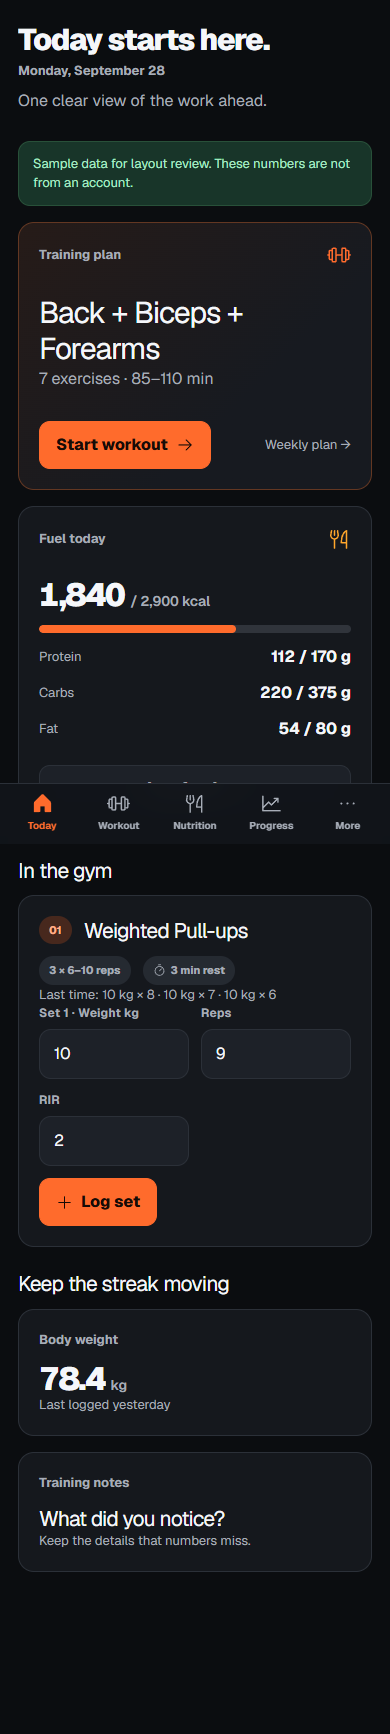
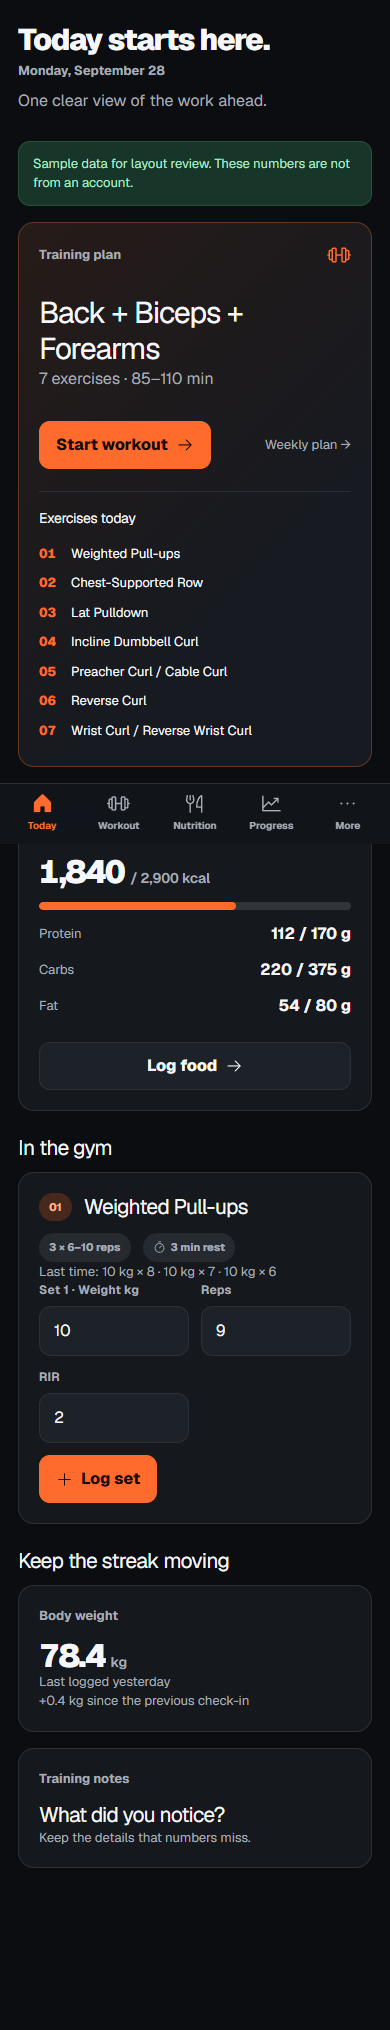
Show today's ordered plan and weight trend

diff --git a/src/app/(app)/today/page.tsx b/src/app/(app)/today/page.tsx
@@ -1,49 +1,152 @@
 'use client'
 
-import { useEffect,useState } from 'react'
+import { useEffect, useState } from 'react'
 import Link from 'next/link'
 import { useRouter } from 'next/navigation'
 import { ArrowRight, Barbell, ForkKnife, TrendUp } from '@phosphor-icons/react'
 import { useAuth } from '@/components/auth-provider'
 import { supabase } from '@/lib/supabase'
-import { dayNumber,localDate,niceDate } from '@/lib/utils'
+import { dayNumber, localDate, niceDate } from '@/lib/utils'
 import { nutritionTotals } from '@/lib/metrics'
-import { displayValue,unitLabel } from '@/lib/units'
+import { displayValue, unitLabel } from '@/lib/units'
 import { useUnits } from '@/hooks/use-units'
-import { errorMessage,type WorkoutDay,type NutritionTarget,type FoodEntry,type Measurement,type Session } from '@/lib/data'
+import { errorMessage, type WorkoutDay, type NutritionTarget, type FoodEntry, type Measurement, type Session } from '@/lib/data'
+
+type PlannedExercise = { id: string; sort_order: number; exercises: { name: string } }
+type WeightCheckIn = Pick<Measurement, 'id' | 'measured_at' | 'weight_kg'>
 
 export default function Today() {
-  const {user}=useAuth();const router=useRouter()
-  const units=useUnits()
-  const [day,setDay]=useState<WorkoutDay|null>(null)
-  const [active,setActive]=useState<Session|null>(null)
-  const [targets,setTargets]=useState<NutritionTarget|null>(null)
-  const [entries,setEntries]=useState<FoodEntry[]>([])
-  const [weight,setWeight]=useState<Pick<Measurement,'id'|'measured_at'|'weight_kg'>|null>(null)
-  const [exerciseCount,setExerciseCount]=useState(0)
-  const [error,setError]=useState('');const [busy,setBusy]=useState(false)
-  useEffect(()=>{ if(!user)return; let live=true; (async()=>{try{
-    const client=supabase();await client.rpc('forge_ensure_user_setup')
-    const [sessions,nutrition,foods,measurements]=await Promise.all([
-      client.from('workout_sessions').select('id,workout_day_id,started_at,completed_at,status,notes').eq('status','active').maybeSingle(),
-      client.from('nutrition_targets').select('id,calories,protein_g,carbs_g,fat_g,effective_from').lte('effective_from',localDate()).order('effective_from',{ascending:false}).limit(1).maybeSingle(),
-      client.from('food_entries').select('id,food_id,logged_date,meal_type,quantity,calories,protein_g,carbs_g,fat_g').eq('logged_date',localDate()),
-      client.from('body_measurements').select('id,measured_at,weight_kg').not('weight_kg','is',null).order('measured_at',{ascending:false}).limit(1).maybeSingle(),
-    ])
-    if(sessions.error)throw sessions.error;if(nutrition.error)throw nutrition.error;if(foods.error)throw foods.error;if(measurements.error)throw measurements.error
-    // Day rows are restricted to the active program through the program relationship.
-    const {data:program}=await client.from('workout_programs').select('id').eq('active',true).maybeSingle()
-    const {data:today}=await client.from('workout_days').select('id,day_of_week,name,is_rest_day,estimated_minutes_min,estimated_minutes_max').eq('program_id',program?.id??'00000000-0000-0000-0000-000000000000').eq('day_of_week',dayNumber()).maybeSingle()
-    const {count}=today?await client.from('program_exercises').select('id',{count:'exact',head:true}).eq('workout_day_id',today.id):{count:0}
-    if(live){setDay(today);setActive(sessions.data);setTargets(nutrition.data);setEntries(foods.data??[]);setWeight(measurements.data);setExerciseCount(count??0)}
-  }catch(caught){if(live)setError(errorMessage(caught))}})();return()=>{live=false}},[user])
-  const totals=nutritionTotals(entries)
-  async function start() { if(!user||!day)return;setBusy(true);setError('');try{
-    if(active){router.push(`/workouts/session/${active.id}`);return}
-    const {data:sessionId,error:startError}=await supabase().rpc('forge_start_workout',{p_day_id:day.id});if(startError)throw startError
-    if(!sessionId)throw new Error('Workout could not be started. Please try again.')
-    router.push(`/workouts/session/${sessionId}`)
-  }catch(caught){setError(errorMessage(caught))}finally{setBusy(false)} }
-  const date=new Date().toLocaleDateString('en-US',{weekday:'long',month:'long',day:'numeric'})
-  return <><div className="page-head"><div className="eyebrow">{date}</div><h1>Today starts here.</h1><p>One clear view of the work ahead.</p></div>{error&&<div className="notice" role="alert">{error}</div>}<div className="grid-2"><section className="card strong"><div className="row"><div className="eyebrow">Training plan</div><Barbell size={24} color="var(--accent)"/></div><h2 style={{fontSize:30,marginTop:28}}>{day?.is_rest_day?'Recovery day':day?.name??'Loading your plan…'}</h2><p className="muted">{day?.is_rest_day?'Rest, eat well, and come back stronger.':day?`${exerciseCount} exercises · ${day.estimated_minutes_min}–${day.estimated_minutes_max} min`:'Your weekly routine is being loaded.'}</p><div className="row wrap" style={{marginTop:30}}>{active?<button className="btn primary" onClick={()=>router.push(`/workouts/session/${active.id}`)}>Resume workout <ArrowRight size={18}/></button>:day&&!day.is_rest_day?<button className="btn primary" disabled={busy} onClick={start}>{busy?'Starting…':'Start workout'} <ArrowRight size={18}/></button>:<Link className="btn" href="/workouts">View routine <ArrowRight size={18}/></Link>}<Link href="/workouts" className="muted small">Weekly plan →</Link></div></section><section className="card"><div className="row"><div className="eyebrow">Fuel today</div><ForkKnife size={24} color="var(--amber)"/></div><div style={{marginTop:28}}><div className="metric">{Math.round(totals.calories)} <small>/ {targets?.calories??2900} kcal</small></div><div className="progress-track" style={{marginTop:14}}><div className="progress-fill" style={{width:`${Math.min(100,totals.calories/(targets?.calories||2900)*100)}%`}}/></div></div><div className="row" style={{marginTop:22}}><span className="muted small">Protein</span><strong>{Math.round(totals.protein)} / {targets?.protein_g??170} g</strong></div><div className="row" style={{marginTop:10}}><span className="muted small">Carbs</span><strong>{Math.round(totals.carbs)} / {targets?.carbs_g??375} g</strong></div><div className="row" style={{marginTop:10}}><span className="muted small">Fat</span><strong>{Math.round(totals.fat)} / {targets?.fat_g??80} g</strong></div><Link href="/nutrition" className="btn full" style={{marginTop:24}}>Log food <ArrowRight size={18}/></Link></section></div><div className="section-head"><h2>Keep the streak moving</h2></div><div className="grid-2"><Link href="/progress" className="card row"><div><div className="eyebrow">Body weight</div><div className="metric" style={{marginTop:14}}>{displayValue(weight?.weight_kg??null,'weight',units)??'—'} <small>{unitLabel('weight',units)}</small></div><p className="muted small" style={{marginBottom:0}}>{weight?`Last logged ${niceDate(weight.measured_at)}`:'Log your first weigh-in'}</p></div><TrendUp size={27} color="var(--accent)"/></Link><Link href="/journal" className="card row"><div><div className="eyebrow">Training notes</div><h2 style={{marginTop:14}}>What did you notice?</h2><p className="muted small" style={{marginBottom:0}}>Keep the details that numbers miss.</p></div><ArrowRight size={22} color="var(--muted)"/></Link></div></>
+  const { user } = useAuth()
+  const router = useRouter()
+  const units = useUnits()
+  const [day, setDay] = useState<WorkoutDay | null>(null)
+  const [planned, setPlanned] = useState<PlannedExercise[]>([])
+  const [active, setActive] = useState<Session | null>(null)
+  const [targets, setTargets] = useState<NutritionTarget | null>(null)
+  const [entries, setEntries] = useState<FoodEntry[]>([])
+  const [weights, setWeights] = useState<WeightCheckIn[]>([])
+  const [loading, setLoading] = useState(true)
+  const [error, setError] = useState('')
+  const [busy, setBusy] = useState(false)
+
+  useEffect(() => {
+    if (!user) return
+    let live = true
+    const load = async () => {
+      try {
+        const client = supabase()
+        const { error: setupError } = await client.rpc('forge_ensure_user_setup')
+        if (setupError) throw setupError
+        const todayDate = localDate()
+        const [sessions, nutrition, foods, measurements, programResult] = await Promise.all([
+          client.from('workout_sessions').select('id,workout_day_id,started_at,completed_at,status,notes').eq('status', 'active').maybeSingle(),
+          client.from('nutrition_targets').select('id,calories,protein_g,carbs_g,fat_g,effective_from').lte('effective_from', todayDate).order('effective_from', { ascending: false }).limit(1).maybeSingle(),
+          client.from('food_entries').select('id,food_id,logged_date,meal_type,quantity,calories,protein_g,carbs_g,fat_g').eq('logged_date', todayDate),
+          client.from('body_measurements').select('id,measured_at,weight_kg').not('weight_kg', 'is', null).order('measured_at', { ascending: false }).limit(2),
+          client.from('workout_programs').select('id').eq('active', true).maybeSingle(),
+        ])
+        for (const result of [sessions, nutrition, foods, measurements, programResult]) {
+          if (result.error) throw result.error
+        }
+        if (!programResult.data) throw new Error('No active training plan found. Open your routine to set one up.')
+
+        const dayResult = await client.from('workout_days')
+          .select('id,day_of_week,name,is_rest_day,estimated_minutes_min,estimated_minutes_max')
+          .eq('program_id', programResult.data.id)
+          .eq('day_of_week', dayNumber())
+          .maybeSingle()
+        if (dayResult.error) throw dayResult.error
+        const today = dayResult.data as WorkoutDay | null
+        if (!today) throw new Error('Today is missing from your training plan. Open Edit routine to check the schedule.')
+
+        let plan: PlannedExercise[] = []
+        if (!today.is_rest_day) {
+          const planResult = await client.from('program_exercises')
+            .select('id,sort_order,exercises(name)')
+            .eq('workout_day_id', today.id)
+            .order('sort_order')
+          if (planResult.error) throw planResult.error
+          plan = (planResult.data ?? []) as unknown as PlannedExercise[]
+        }
+        if (live) {
+          setDay(today)
+          setPlanned(plan)
+          setActive(sessions.data as Session | null)
+          setTargets(nutrition.data)
+          setEntries((foods.data ?? []) as FoodEntry[])
+          setWeights((measurements.data ?? []) as WeightCheckIn[])
+        }
+      } catch (caught) {
+        if (live) setError(errorMessage(caught))
+      } finally {
+        if (live) setLoading(false)
+      }
+    }
+    void load()
+    return () => { live = false }
+  }, [user])
+
+  async function start() {
+    if (!user || !day || day.is_rest_day || planned.length === 0) return
+    setBusy(true)
+    setError('')
+    try {
+      if (active) {
+        router.push(`/workouts/session/${active.id}`)
+        return
+      }
+      const { data: sessionId, error: startError } = await supabase().rpc('forge_start_workout', { p_day_id: day.id })
+      if (startError) throw startError
+      if (!sessionId) throw new Error('Workout could not be started. Please try again.')
+      router.push(`/workouts/session/${sessionId}`)
+    } catch (caught) {
+      setError(errorMessage(caught))
+    } finally {
+      setBusy(false)
+    }
+  }
+
+  const totals = nutritionTotals(entries)
+  const latestWeight = weights[0]
+  const previousWeight = weights[1]
+  const weightChange = latestWeight?.weight_kg != null && previousWeight?.weight_kg != null
+    ? displayValue(Number(latestWeight.weight_kg) - Number(previousWeight.weight_kg), 'weight', units)
+    : null
+  const date = new Date().toLocaleDateString('en-US', { weekday: 'long', month: 'long', day: 'numeric' })
+
+  return <>
+    <div className="page-head"><div className="eyebrow">{date}</div><h1>Today starts here.</h1><p>One clear view of the work ahead.</p></div>
+    {error && <div className="notice" role="alert">{error}</div>}
+    <div className="grid-2">
+      <section className="card strong">
+        <div className="row"><div className="eyebrow">Training plan</div><Barbell size={24} color="var(--accent)" /></div>
+        <h2 style={{ fontSize: 30, marginTop: 28 }}>{day?.is_rest_day ? 'Recovery day' : day?.name ?? (loading ? 'Loading your plan…' : 'Plan unavailable')}</h2>
+        <p className="muted">{day?.is_rest_day ? 'Rest, eat well, and come back stronger.' : day ? `${planned.length} exercises · ${day.estimated_minutes_min}–${day.estimated_minutes_max} min` : 'Open your routine to check the schedule.'}</p>
+        <div className="row wrap" style={{ marginTop: 30 }}>
+          {active
+            ? <button className="btn primary" onClick={() => router.push(`/workouts/session/${active.id}`)}>Resume workout <ArrowRight size={18} /></button>
+            : day && !day.is_rest_day && planned.length > 0
+              ? <button className="btn primary" disabled={busy} onClick={start}>{busy ? 'Starting…' : 'Start workout'} <ArrowRight size={18} /></button>
+              : <Link className="btn" href="/workouts/routine">View routine <ArrowRight size={18} /></Link>}
+          <Link href="/workouts" className="muted small">Weekly plan →</Link>
+        </div>
+        {day && !day.is_rest_day && (planned.length > 0
+          ? <div className="today-exercises"><h3>Exercises today</h3><ol>{planned.map((item, index) => <li key={item.id}><span>{String(index + 1).padStart(2, '0')}</span>{item.exercises.name}</li>)}</ol></div>
+          : <p className="muted small" style={{ marginBottom: 0 }}>No exercises are scheduled yet. Add them in Edit routine.</p>)}
+      </section>
+      <section className="card">
+        <div className="row"><div className="eyebrow">Fuel today</div><ForkKnife size={24} color="var(--amber)" /></div>
+        <div style={{ marginTop: 28 }}><div className="metric">{Math.round(totals.calories)} <small>/ {targets?.calories ?? 2900} kcal</small></div><div className="progress-track" style={{ marginTop: 14 }}><div className="progress-fill" style={{ width: `${Math.min(100, totals.calories / (targets?.calories || 2900) * 100)}%` }} /></div></div>
+        <div className="row" style={{ marginTop: 22 }}><span className="muted small">Protein</span><strong>{Math.round(totals.protein)} / {targets?.protein_g ?? 170} g</strong></div>
+        <div className="row" style={{ marginTop: 10 }}><span className="muted small">Carbs</span><strong>{Math.round(totals.carbs)} / {targets?.carbs_g ?? 375} g</strong></div>
+        <div className="row" style={{ marginTop: 10 }}><span className="muted small">Fat</span><strong>{Math.round(totals.fat)} / {targets?.fat_g ?? 80} g</strong></div>
+        <Link href="/nutrition" className="btn full" style={{ marginTop: 24 }}>Log food <ArrowRight size={18} /></Link>
+      </section>
+    </div>
+    <div className="section-head"><h2>Keep the streak moving</h2></div>
+    <div className="grid-2">
+      <Link href="/progress" className="card row"><div><div className="eyebrow">Body weight</div><div className="metric" style={{ marginTop: 14 }}>{displayValue(latestWeight?.weight_kg ?? null, 'weight', units) ?? '—'} <small>{unitLabel('weight', units)}</small></div><p className="muted small" style={{ marginBottom: 0 }}>{latestWeight ? `Last logged ${niceDate(latestWeight.measured_at)}` : 'Log your first weigh-in'}</p>{weightChange !== null && <p className="muted small" style={{ margin: '6px 0 0' }}>{weightChange > 0 ? '+' : ''}{weightChange} {unitLabel('weight', units)} since {niceDate(previousWeight.measured_at)}</p>}</div><TrendUp size={27} color="var(--accent)" /></Link>
+      <Link href="/journal" className="card row"><div><div className="eyebrow">Training notes</div><h2 style={{ marginTop: 14 }}>What did you notice?</h2><p className="muted small" style={{ marginBottom: 0 }}>Keep the details that numbers miss.</p></div><ArrowRight size={22} color="var(--muted)" /></Link>
+    </div>
+  </>
 }

diff --git a/src/app/design-preview/page.tsx b/src/app/design-preview/page.tsx
@@ -15,6 +15,7 @@ export default function DesignPreview() {
           <h2 style={{ fontSize: 30, marginTop: 28 }}>Back + Biceps + Forearms</h2>
           <p className="muted">7 exercises · 85–110 min</p>
           <div className="row wrap" style={{ marginTop: 30 }}><button className="btn primary">Start workout <ArrowRight size={18} /></button><span className="muted small">Weekly plan →</span></div>
+          <div className="today-exercises"><h3>Exercises today</h3><ol>{['Weighted Pull-ups', 'Chest-Supported Row', 'Lat Pulldown', 'Incline Dumbbell Curl', 'Preacher Curl / Cable Curl', 'Reverse Curl', 'Wrist Curl / Reverse Wrist Curl'].map((name, index) => <li key={name}><span>{String(index + 1).padStart(2, '0')}</span>{name}</li>)}</ol></div>
         </section>
         <section className="card">
           <div className="row"><div className="eyebrow">Fuel today</div><ForkKnife size={24} color="var(--amber)" /></div>
@@ -33,7 +34,7 @@ export default function DesignPreview() {
       </section>
       <div className="section-head"><h2>Keep the streak moving</h2></div>
       <div className="grid-2">
-        <div className="card"><div className="eyebrow">Body weight</div><div className="metric" style={{ marginTop: 14 }}>78.4 <small>kg</small></div><p className="muted small">Last logged yesterday</p></div>
+        <div className="card"><div className="eyebrow">Body weight</div><div className="metric" style={{ marginTop: 14 }}>78.4 <small>kg</small></div><p className="muted small">Last logged yesterday</p><p className="muted small">+0.4 kg since the previous check-in</p></div>
         <div className="card"><div className="eyebrow">Training notes</div><h2 style={{ marginTop: 14 }}>What did you notice?</h2><p className="muted small">Keep the details that numbers miss.</p></div>
       </div>
     </main>

diff --git a/src/app/globals.css b/src/app/globals.css
@@ -44,6 +44,11 @@ p { line-height:1.5; }
 .page-head p { margin:8px 0 0; color:var(--muted); }
 .card { background:var(--surface); border:1px solid var(--line); border-radius:16px; padding:20px; }
 .card.strong { background:linear-gradient(135deg,#261b18,#171a20 65%); border-color:#633722; }
+.today-exercises { margin-top:22px; padding-top:16px; border-top:1px solid var(--line); }
+.today-exercises h3 { font-size:14px; }
+.today-exercises ol { list-style:none; margin:10px 0 0; padding:0; }
+.today-exercises li { display:grid; grid-template-columns:22px minmax(0,1fr); gap:10px; padding:6px 0; font-size:13px; line-height:1.35; }
+.today-exercises li span { color:var(--accent); font-variant-numeric:tabular-nums; font-weight:800; }
 .stack { display:grid; gap:16px; }
 .row { display:flex; align-items:center; justify-content:space-between; gap:12px; }
 .row.wrap { flex-wrap:wrap; }

diff --git a/docs/BUILD_STATUS.md b/docs/BUILD_STATUS.md
@@ -7,10 +7,10 @@ Last updated: 2026-09-29
 | Specification documents | Complete | Original preserved in `SOURCE_SPEC.md`; six working documents generated by `scripts/split_spec.py`. |
 | Next.js project setup | Locally complete | Dependencies installed; typecheck, lint, tests, and production build pass on the current worktree. shadcn configuration and button primitive were added manually after CLI network timeout. Git repository initialized locally. |
 | Supabase schema and auth | Locally implemented | Migration, RLS, private Storage policies, seed trigger, browser/server auth, sign-up, sign-in, password reset implemented. The PostgreSQL 16 harness passed owner read/update/delete isolation on all 15 private tables, plus forged-owner insert and private Storage probes. Live Supabase account verification remains. |
-| Core workout journey | Locally implemented; live unverified | Today, routine/editor, atomic session creation through `forge_start_workout`, set edit/delete, substitution, previous performance through `forge_previous_sets`, elapsed-time timer, history, exercise-specific logged history, and completion are present. Settings stores default rest and notification preferences. Live account and device testing remain. |
+| Core workout journey | Locally implemented; live unverified | Today shows the ordered exercise plan and recent weight change, alongside the routine/editor, atomic session creation through `forge_start_workout`, set edit/delete, substitution, previous performance through `forge_previous_sets`, elapsed-time timer, history, exercise-specific logged history, and completion. Settings stores default rest and notification preferences. Live account and device testing remain. |
 | Nutrition and progress | Locally implemented; live unverified | Saved foods, daily logging with consumed and remaining calories/macros, editable measurements with explicit clearing, selectable measurement chart, private photos, date-filtered gallery, comparison, journal, goals, unit conversion, settings, and JSON export are present. Live integration testing remains, especially photo Storage deletion and upload cleanup. |
 | First use and offline | Partially implemented | Guided `/onboarding` covers profile/units, goal, seeded plan, targets, and optional starting progress, with an account marker and route gate; live testing remains. The service worker shows the last loaded workout read-only from browser storage. Workout sets have a durable local queue, visible pending status, and reconnect retry; other edits still need a connection. Live account and device tests remain. |
-| Visual QA and accessibility | Partially checked | Mobile 390×844 and desktop 1440×900 development previews refreshed; a 360px Edge check passed the five-item mobile nav, More sheet, keyboard Escape, and touch target geometry. The design verdict found the repeated card-label pattern and initial-viewport food action placement still open. Authenticated workout and device touch checks remain. |
+| Visual QA and accessibility | Partially checked | Mobile 390×844 and desktop 1440×900 development previews refreshed with the ordered plan; the Start Workout action remains in the first mobile viewport, seven exercise names render, and neither preview overflows horizontally. A 360px Edge check passed the five-item mobile nav, More sheet, keyboard Escape, and touch target geometry. The design verdict found the repeated card-label pattern and initial-viewport food action placement still open. Authenticated workout and device touch checks remain. |
 | Preview and production release | Pending accounts | Supabase, Vercel, and GitHub destinations have not been supplied. |
 
 The source did not include exact sets, rep ranges, and rest prescriptions. Seed values are explicitly provisional; see `DECISIONS.md`.
@@ -38,3 +38,4 @@ The source did not include exact sets, rep ranges, and rest prescriptions. Seed 
 - 2026-09-29: Aligned the mobile bar with the App Flow's Today, Workout, Nutrition, Progress, and More destinations. More exposes History, Journal, Routine, and Settings and supports keyboard Escape and focus return. `scripts/check_mobile_nav.mjs` passed in Edge at 360px, including 44px targets, no horizontal overflow, and the desktop sidebar; `docs/screenshots/mobile-more.png` records the open sheet. Refreshed desktop and mobile development preview captures. Typecheck, lint, and production build passed, and production `/design-preview` returned HTTP 404. Authenticated navigation and mobile device behavior remain unverified.
 - 2026-09-29: Expanded `scripts/local_db_checks.sql` with owner fixtures for every private table. The disposable PostgreSQL 16 harness passed RLS enabled, owner-visible and cross-owner-hidden reads, cross-owner update/delete rejection on all 15 private tables, a forged-owner insert rejection, and private Storage read/delete/insert isolation. This tests the migration under the local Supabase-shaped harness; live Supabase Auth and Storage remain unverified.
 - 2026-09-29: Added explicit protein, carbohydrate, and fat remaining amounts to the nutrition summary, with an over-target label instead of a negative remaining amount. The same balance label now handles calories. Typecheck, lint, 11 unit tests, and the production build passed. Signed-in nutrition rendering and persistence remain unverified.
+- 2026-09-29: Corrected the Today dashboard to query and show the day's ordered exercise names, report missing plan/day errors instead of silently leaving the card in a loading state, and show change from the prior body-weight check-in without judging its direction. The mobile and desktop sample previews were refreshed; Edge checks found seven ordered names, no horizontal overflow, and Start Workout in the first mobile viewport. The design detector found zero anti-patterns (existing CSS palette/type advisories remain). Typecheck, lint, 11 tests, and build passed. Real account rendering and start/resume remain unverified.

diff --git a/docs/REQUIREMENT_AUDIT.md b/docs/REQUIREMENT_AUDIT.md
@@ -7,6 +7,7 @@ Last checked: 2026-09-29. Source of truth: `SOURCE_SPEC.md`, especially the PRD 
 | Six project documents and source preservation | `SOURCE_SPEC.md`, `PRD.md`, `TRD.md`, `APP_FLOW.md`, `DESIGN_BRIEF.md`, `BACKEND_SCHEMA.md`, `IMPLEMENTATION_PLAN.md` | Present. |
 | Next.js, TypeScript, Tailwind, shadcn configuration | `package.json`, `components.json`, `src/app`, build output | Local typecheck, lint, and build pass. |
 | Owner-scoped Auth, database, private photos | Supabase migration, SSR/client helpers, local PostgreSQL harness | Local migration and seed pass. The harness verifies RLS owner reads and cross-owner read/update/delete isolation on all 15 private tables, forged-owner inserts, and private Storage policies. Supabase Auth, email, and Storage need a live project. |
+| Today dashboard | Ordered `program_exercises` names, date, training/rest state, duration, nutrition, latest weight and prior-check-in change, start/resume action | Code present. A desktop/mobile sample preview passed ordered-name, viewport-action, and overflow checks. Signed-in queries and start/resume still require a real account. |
 | Today, routine, sessions, set logging, previous performance, rest timer, and history | `src/app/(app)/today`, `workouts`, `workouts/session/[id]`; `forge_start_workout`, `forge_previous_sets` | Code present. Local SQL checks cover atomic/idempotent start, empty-plan rollback, previous sets, and all-time volume best; full gym session remains untested with a real account. |
 | Routine changes, including training-day reassignment | `src/app/(app)/workouts/routine/page.tsx`; local SQL reassignment check | Code present and destination ordering passed locally. Signed-in mobile and desktop UI remain untested. |
 | Exercise-specific history | `src/app/(app)/workouts/exercise/[id]` lists logged sets across sessions; session cards link to it | Code present. Signed-in query and mobile layout remain untested. |

diff --git a/AGENTS.md b/AGENTS.md
@@ -59,6 +59,7 @@ Keep this record current when setup or project state changes.
 - Matched the mobile navigation to the specified five destinations, with an accessible More sheet for History, Journal, Routine, and Settings. The 360px Edge check in `scripts/check_mobile_nav.mjs` passed link count, Escape/focus return, 44px target boxes, overflow, and desktop sidebar behavior. `docs/screenshots/mobile-more.png` and refreshed desktop/mobile preview captures record the result. Authenticated route testing remains.
 - Expanded the PostgreSQL harness to put owner fixtures in all 15 private tables and verify RLS enabled, owner reads, cross-owner read/update/delete isolation, and a forged-owner insert. Private Storage read/delete/insert isolation also passed. This remains a local stub harness; live Supabase Auth and Storage are unverified.
 - Added remaining values for protein, carbs, and fat on the Nutrition screen, with an over-target label that also covers calories. Typecheck, lint, 11 tests, and production build passed. Signed-in Nutrition rendering still needs a live account.
+- Today now lists the ordered exercises for the scheduled day, reports missing plan/day queries, and shows the body-weight change from the previous check-in. Refreshed development screenshots at 390px and 1440px; Edge checks passed seven exercise names, no horizontal overflow, and Start Workout inside the first mobile viewport. Typecheck, lint, 11 tests, build, and the Impeccable detector (zero anti-patterns) passed. Actual account data and start/resume remain unverified.
 
 ## Application build record (2026-09-28)
 

diff --git a/DESIGN.md b/DESIGN.md
@@ -38,6 +38,15 @@ typography:
     fontSize: "12px"
     fontWeight: 700
     letterSpacing: "0.02em"
+  planTitle:
+    fontFamily: "Geist Sans, Arial, Helvetica, sans-serif"
+    fontSize: "14px"
+    fontWeight: 700
+  planItem:
+    fontFamily: "Geist Sans, Arial, Helvetica, sans-serif"
+    fontSize: "13px"
+    fontWeight: 400
+    lineHeight: 1.35
   metric:
     fontFamily: "Geist Sans, Arial, Helvetica, sans-serif"
     fontSize: "32px"
@@ -143,6 +152,7 @@ The hierarchy is clean and numeric. Headings use tight tracking; metrics use tab
 - **Body:** Default reading and control text (`typography.body`); paragraphs have a 1.5 line height.
 - **Label:** Compact field label (`typography.label`); the preview also uses a separate 13px bold card kicker, which is not a recommended system role.
 - **Metric:** Large, tightly tracked values (`typography.metric`); unit and target text recede to smaller muted type.
+- **Plan list:** A compact 14px heading and 13px ordered rows keep all seven exercises visible below the workout action (`typography.planTitle`, `typography.planItem`).
 
 **The Number First Rule.** Let weights, reps, calories, and macro totals lead their local group; keep units and comparison figures visually quieter.
 
